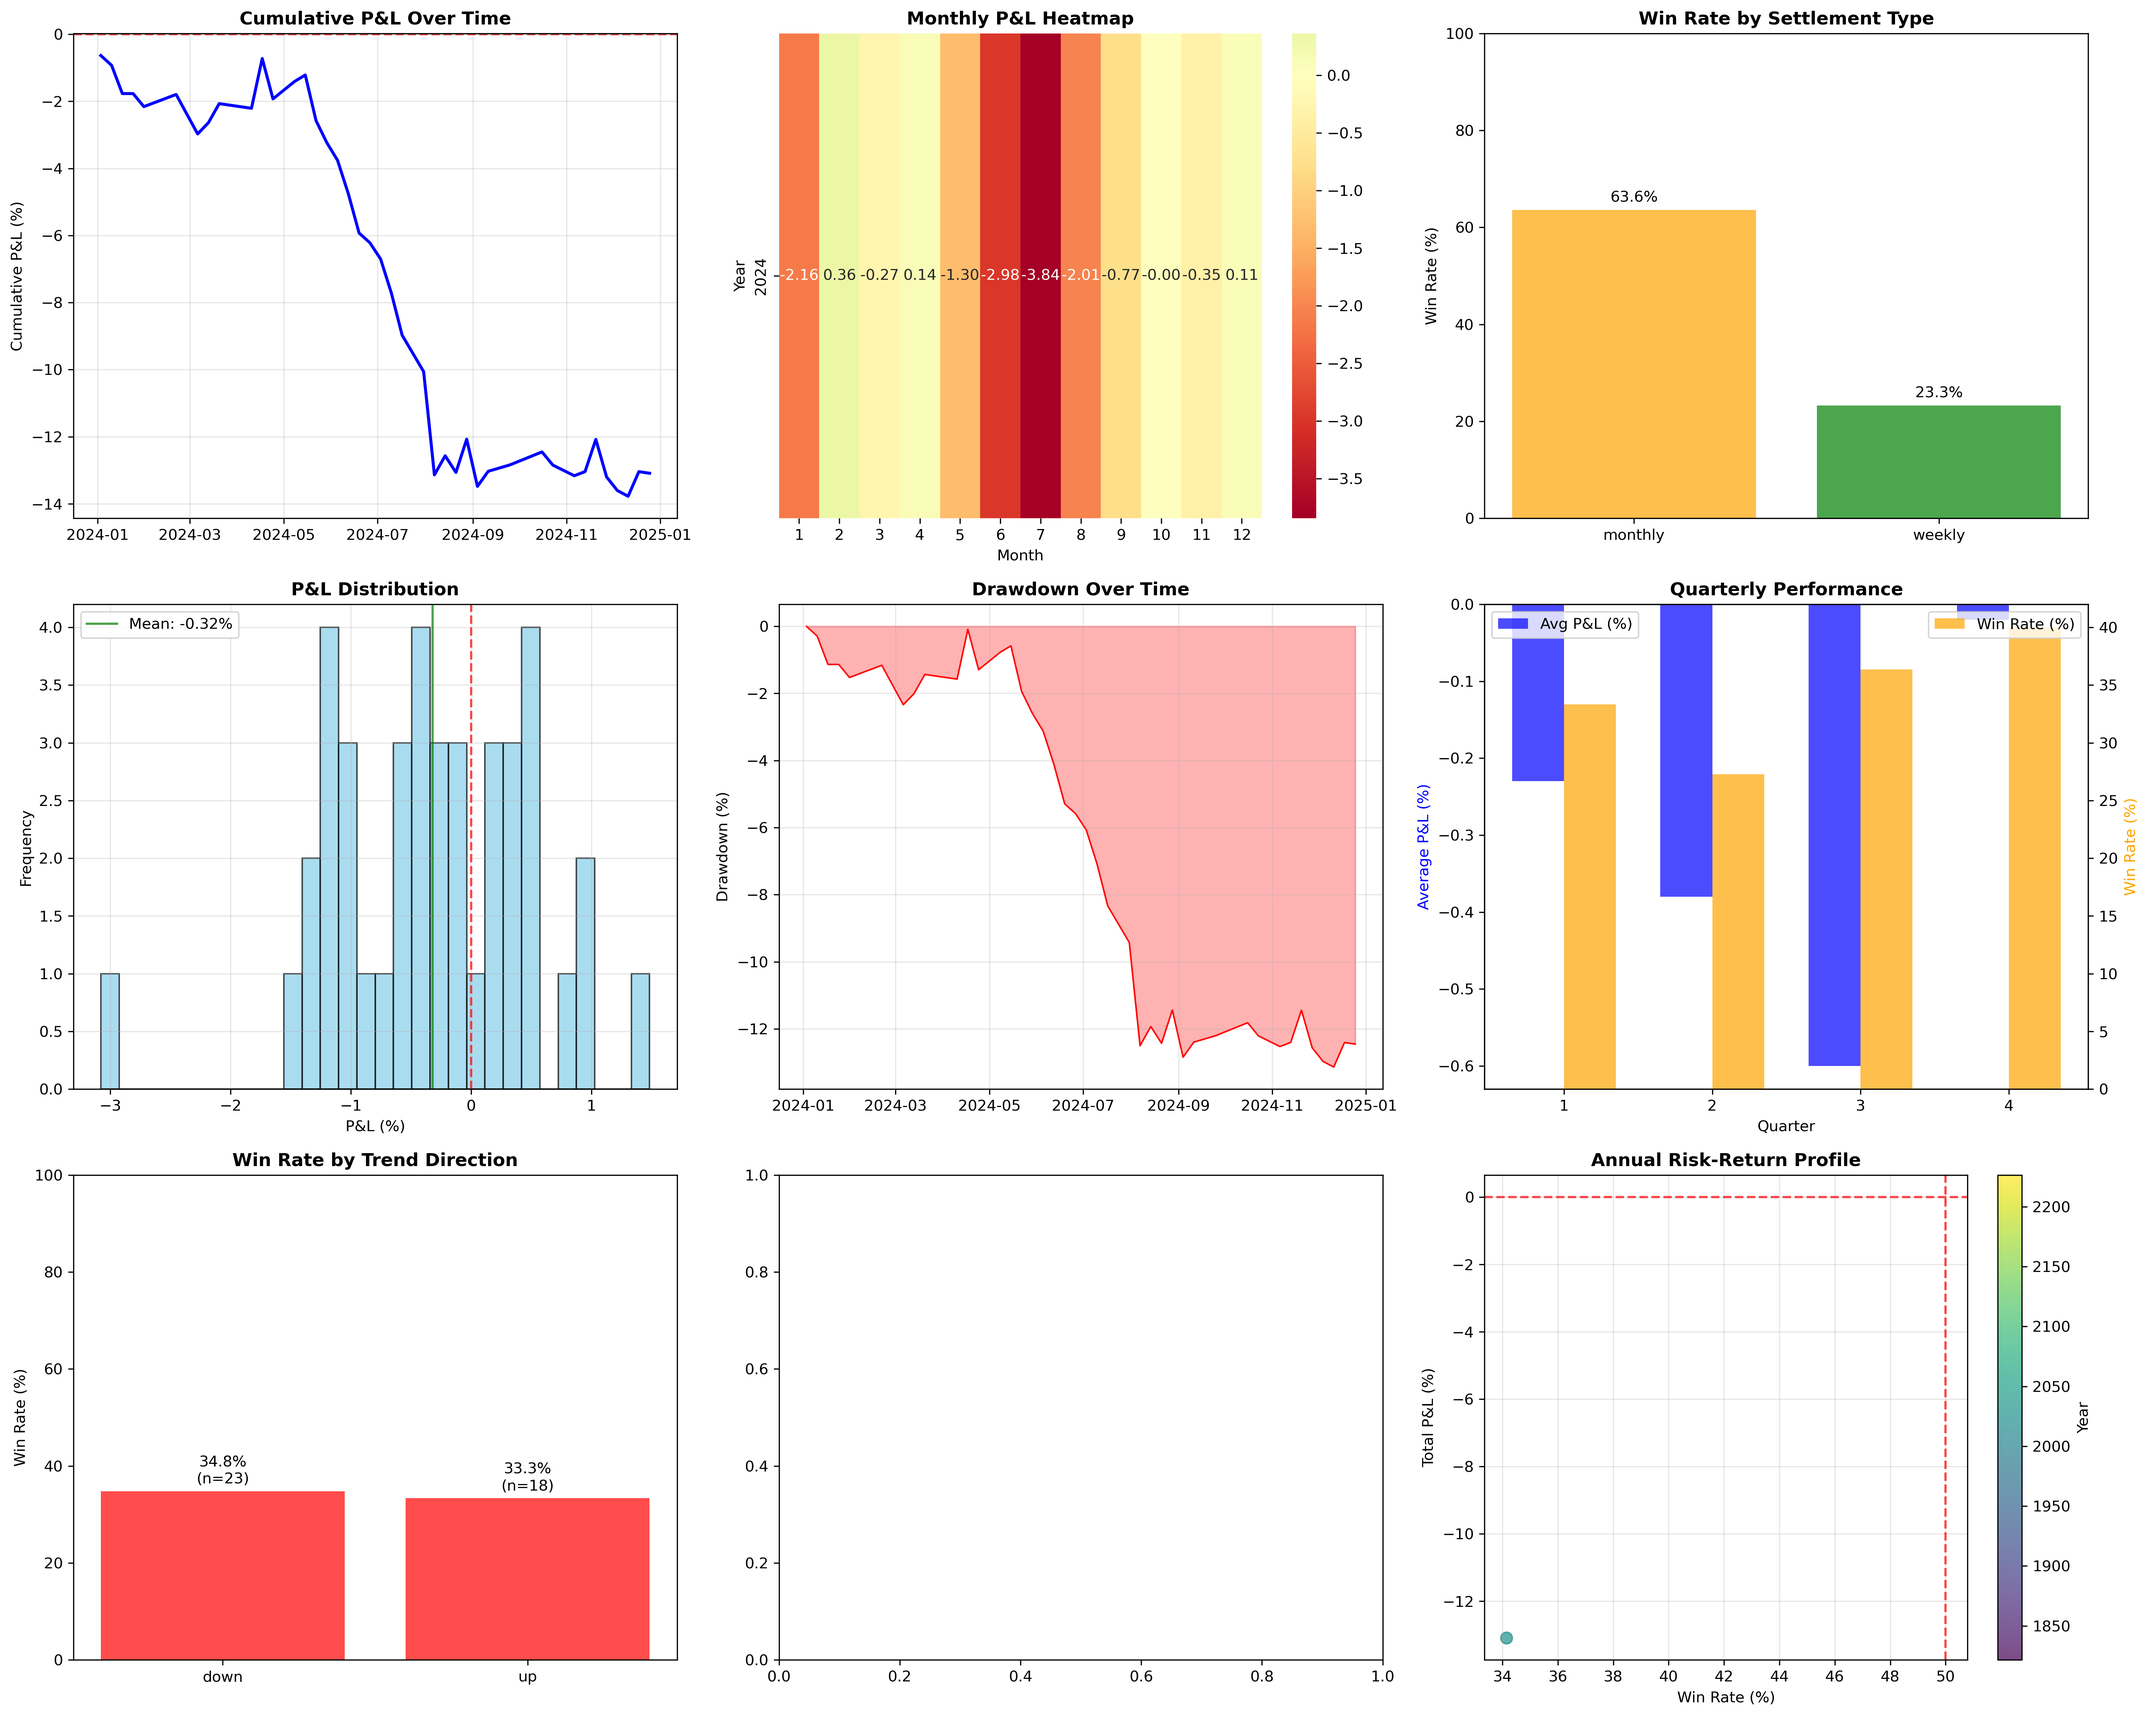
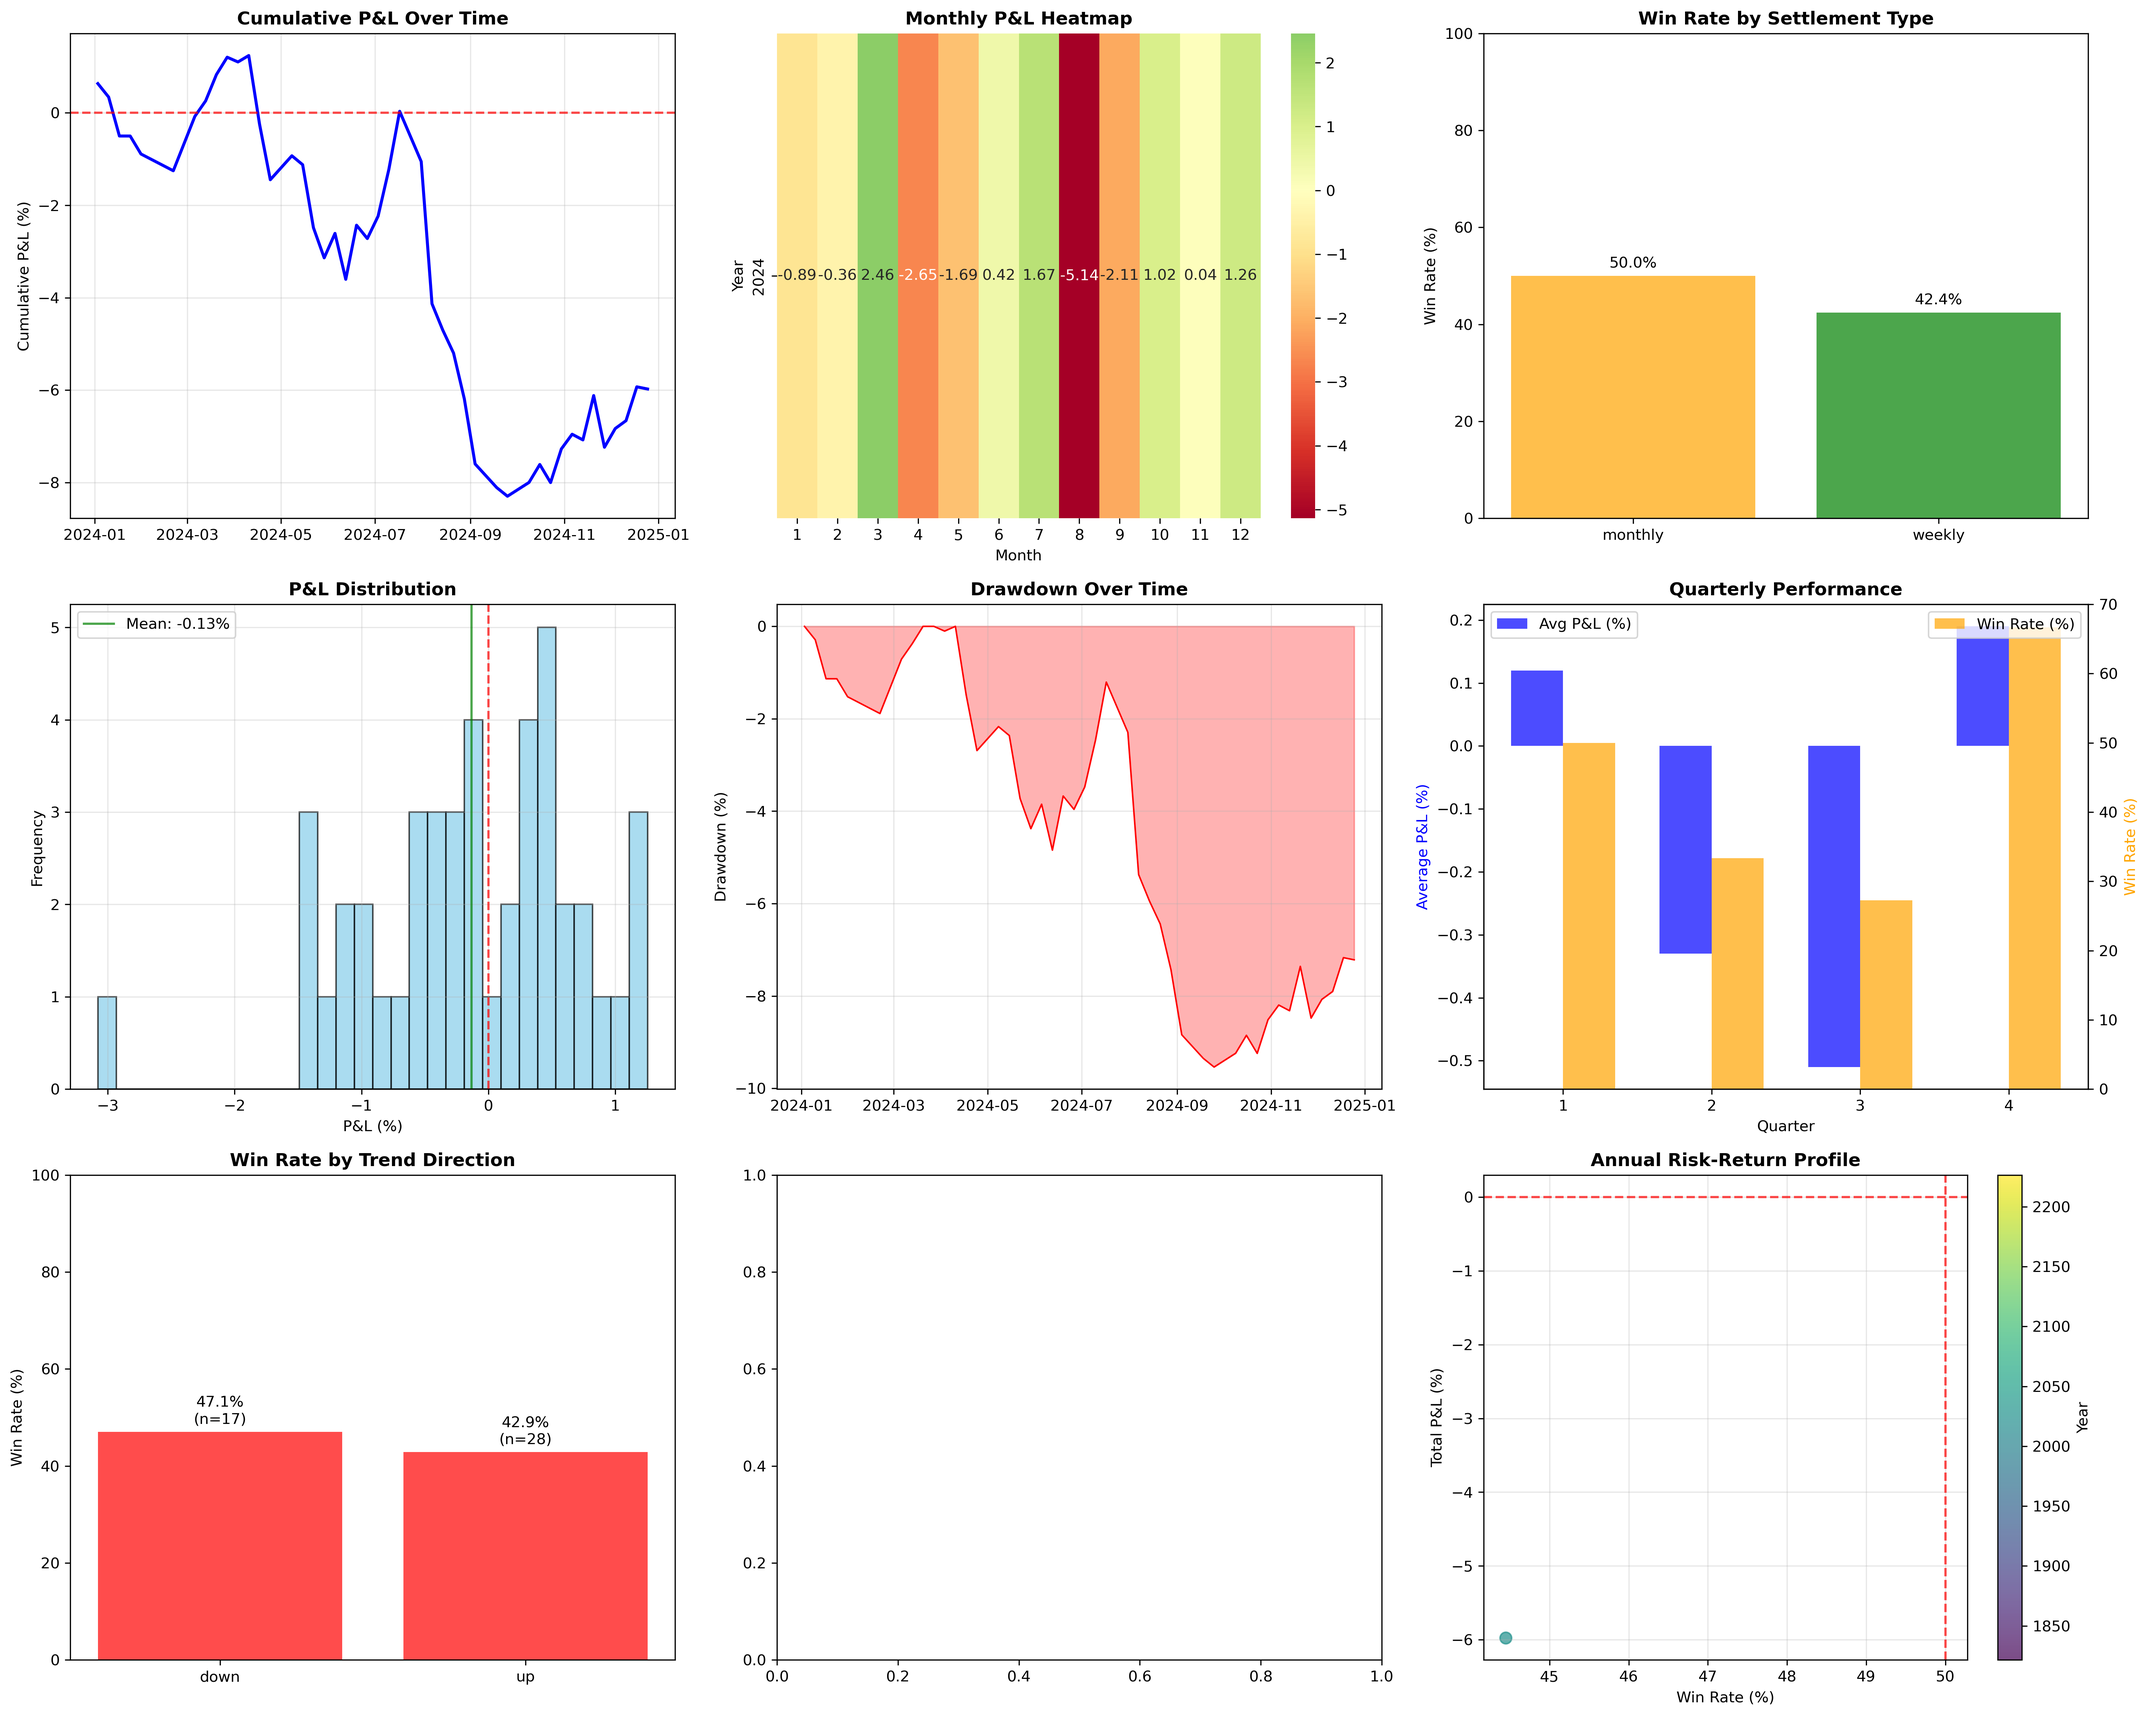
ignore file and update date comparison

diff --git a/taiwan_futures_backtest.py b/taiwan_futures_backtest.py
@@ -141,7 +141,7 @@ class TaiwanFuturesBacktest:
             opening_date = prev_settlement + timedelta(days=1)
 
         # Find the next available trading day
-        while opening_date not in self.data.index and opening_date <= settlement_date:
+        while not (self.data['Date'] == opening_date).any() and opening_date < settlement_date:
             opening_date += timedelta(days=1)
 
         return opening_date if (self.data['Date'] == opening_date).any() else None
@@ -372,6 +372,7 @@ class TaiwanFuturesBacktest:
         # 4. Settlement Type Analysis
         weekly = trades[trades['settlement_type'] == 'weekly']
         monthly = trades[trades['settlement_type'] == 'monthly']
+        print(monthly)
 
         filter_analysis['結算類型'] = {
             '週選': self.calculate_performance_stats(weekly),

diff --git a/result.md b/result.md
@@ -1,15 +1,15 @@
 # 台指期結算日傾向回測分析報告
 # Taiwan Futures Settlement Day Pattern Analysis Report
 
-**生成時間 Generated:** 2025-09-24 09:11:27
+**生成時間 Generated:** 2025-09-24 09:32:08
 
 ---
 
 ## 📊 執行摘要 Executive Summary
 
-本報告基於台指期結算日傾向策略進行了全面的回測分析，涵蓋了從2024年01月到2024年12月的完整交易週期。分析包含了基礎績效統計、進階風險指標、波動率分析、季節性模式以及多維度濾網分析。策略在此期間需要優化，淨利達-13.09%，勝率34.1%。
+本報告基於台指期結算日傾向策略進行了全面的回測分析，涵蓋了從2024年01月到2024年12月的完整交易週期。分析包含了基礎績效統計、進階風險指標、波動率分析、季節性模式以及多維度濾網分析。策略在此期間需要優化，淨利達-5.98%，勝率44.4%。
 
-This report provides a comprehensive backtesting analysis of Taiwan Futures settlement day pattern strategy, covering the complete trading cycle from January 2024 to December 2024. The analysis includes basic performance statistics, advanced risk indicators, volatility analysis, seasonal patterns, and multi-dimensional filter analysis. The strategy showed mixed performance with a net profit of -13.09% and a win rate of 34.1%.
+This report provides a comprehensive backtesting analysis of Taiwan Futures settlement day pattern strategy, covering the complete trading cycle from January 2024 to December 2024. The analysis includes basic performance statistics, advanced risk indicators, volatility analysis, seasonal patterns, and multi-dimensional filter analysis. The strategy showed mixed performance with a net profit of -5.98% and a win rate of 44.4%.
 
 ---
 
@@ -22,7 +22,7 @@ This report provides a comprehensive backtesting analysis of Taiwan Futures sett
 
 ### 分析範圍 Analysis Scope
 - **時間區間**: 2024-01-02 至 2024-12-31
-- **總交易次數**: 41
+- **總交易次數**: 45
 - **結算類型**: 週選 + 月選（每週三結算）
 
 ---
@@ -32,27 +32,27 @@ This report provides a comprehensive backtesting analysis of Taiwan Futures sett
 ### 💰 獲利能力分析 Profitability Analysis
 | 指標 Metric | 數值 Value | 評估 Assessment |
 |-------------|-----------|------------------|
-| **淨利 Net Profit** | -13.09% | 🔴 虧損 |
-| **總獲利 Total Profit** | 7.87% | 正面交易貢獻 |
-| **總虧損 Total Loss** | -20.96% | 負面交易影響 |
-| **最大單筆獲利** | 1.48% | 單筆最佳表現 |
+| **淨利 Net Profit** | -5.98% | 🔴 虧損 |
+| **總獲利 Total Profit** | 12.21% | 正面交易貢獻 |
+| **總虧損 Total Loss** | -18.18% | 負面交易影響 |
+| **最大單筆獲利** | 1.26% | 單筆最佳表現 |
 | **最大單筆虧損** | -3.08% | 單筆最差表現 |
 
 ### 🎲 交易統計 Trading Statistics
 | 項目 Item | 數值 Value | 比例 Ratio |
 |-----------|-----------|-----------|
-| **勝次 Winning Trades** | 14 | 34.1% |
-| **敗次 Losing Trades** | 26 | 63.4% |
-| **總交易次數** | 41 | 100.0% |
+| **勝次 Winning Trades** | 20 | 44.4% |
+| **敗次 Losing Trades** | 24 | 53.3% |
+| **總交易次數** | 45 | 100.0% |
 
 ### 📊 績效比率 Performance Ratios
 | 指標 Metric | 數值 Value | 解釋 Interpretation |
 |-------------|-----------|-------------------|
-| **勝率 Win Rate** | 34.1% | 🔴 低於50% |
-| **勝均 Avg Win** | 0.56% | 平均獲利交易收益 |
-| **敗均 Avg Loss** | -0.81% | 平均虧損交易損失 |
-| **筆均 Avg Trade** | -0.32% | 平均每筆交易收益 |
-| **盈虧比 P/L Ratio** | 0.697 | 🔴 需改善 |
+| **勝率 Win Rate** | 44.4% | 🔴 低於50% |
+| **勝均 Avg Win** | 0.61% | 平均獲利交易收益 |
+| **敗均 Avg Loss** | -0.76% | 平均虧損交易損失 |
+| **筆均 Avg Trade** | -0.13% | 平均每筆交易收益 |
+| **盈虧比 P/L Ratio** | 0.806 | 🔴 需改善 |
 
 ---
 
@@ -62,9 +62,9 @@ This report provides a comprehensive backtesting analysis of Taiwan Futures sett
 
 | 指標 KPI | 數值 Value | 評級 Rating | 建議 Recommendation |
 |----------|-----------|-------------|-------------------|
-| **凱利公式 Kelly%** | -60.3% | ⚠ 負值警告 | 建議降低部位或暫停交易 |
-| **最大回撤** | -13.1% | ✅ 風險可控 | 回撤程度在可接受範圍 |
-| **事件發生率** | 89.1% | ✅ 完整覆蓋 | 策略觸發頻率理想 |
+| **凱利公式 Kelly%** | -24.5% | ⚠ 負值警告 | 建議降低部位或暫停交易 |
+| **最大回撤** | -9.5% | ✅ 風險可控 | 回撤程度在可接受範圍 |
+| **事件發生率** | 97.8% | ✅ 完整覆蓋 | 策略觸發頻率理想 |
 
 ---
 
@@ -76,8 +76,8 @@ This report provides a comprehensive backtesting analysis of Taiwan Futures sett
 
 | 趨勢方向 | 勝率 Win Rate | 平均P&L | 交易次數 | 評估 |
 |----------|--------------|---------|----------|------|
-| **往上** | 33.3% | -0.19% | 18 | 🔴 較差 |
-| **往下** | 34.8% | -0.42% | 23 | 🔴 較差 |
+| **往上** | 42.9% | -0.01% | 28 | 🔴 較差 |
+| **往下** | 47.1% | -0.33% | 17 | 🔴 較差 |
 
 **結論**: 兩種趨勢表現相近。
 
@@ -85,8 +85,8 @@ This report provides a comprehensive backtesting analysis of Taiwan Futures sett
 
 | 結算類型 | 勝率 Win Rate | 平均P&L | 交易次數 | 評估 |
 |----------|--------------|---------|----------|------|
-| **週選** | 23.3% | -0.47% | 30 | 🔴 較差 |
-| **月選** | 63.6% | 0.08% | 11 | 🟢 優秀 |
+| **週選** | 42.4% | -0.22% | 33 | 🔴 較差 |
+| **月選** | 50.0% | 0.10% | 12 | 🔴 較差 |
 
 **結論**: 🎯 **月選結算表現顯著優於週選**，建議重點關注月選結算日的交易機會。
 
@@ -94,10 +94,10 @@ This report provides a comprehensive backtesting analysis of Taiwan Futures sett
 
 | 開盤類型 | 勝率 Win Rate | 平均P&L | 交易次數 | 評估 |
 |----------|--------------|---------|----------|------|
-| **高開** | 36.8% | -0.36% | 19 | 🔴 較差 |
-| **低開** | 31.8% | -0.28% | 22 | 🔴 較差 |
+| **高開** | 42.9% | -0.18% | 21 | 🔴 較差 |
+| **低開** | 45.8% | -0.10% | 24 | 🔴 較差 |
 
-**結論**: 高開情況下策略表現略佳。
+**結論**: 低開情況下策略表現略佳。
 
 ---
 
@@ -107,12 +107,12 @@ This report provides a comprehensive backtesting analysis of Taiwan Futures sett
 
 | 風險指標 Risk Metric | 數值 Value | 解釋 Interpretation |
 |---------------------|-----------|-------------------|
-| **年化報酬率** | -16.60% | 策略年化績效 |
-| **年化波動率** | 6.03% | 策略風險水準 |
-| **夏普比率** | -2.751 | 風險調整後報酬 |
-| **索提諾比率** | -3.759 | 下檔風險調整報酬 |
-| **最大回撤** | -13.1% | 最大虧損程度 |
-| **最大連續虧損** | 11 筆 | 連續虧損承受能力 |
+| **年化報酬率** | -6.91% | 策略年化績效 |
+| **年化波動率** | 6.17% | 策略風險水準 |
+| **夏普比率** | -1.119 | 風險調整後報酬 |
+| **索提諾比率** | -1.464 | 下檔風險調整報酬 |
+| **最大回撤** | -9.5% | 最大虧損程度 |
+| **最大連續虧損** | 8 筆 | 連續虧損承受能力 |
 
 ### 🎯 風險評估 Risk Assessment
 
@@ -124,7 +124,6 @@ This report provides a comprehensive backtesting analysis of Taiwan Futures sett
 
 ### 🟢 正面發現 Positive Findings
 
-1. **月選結算優勢**: 月選結算勝率達63.6%，表現顯著優於週選
 
 ### ⚠ 注意事項 Important Notes
 
@@ -150,7 +149,7 @@ This report provides a comprehensive backtesting analysis of Taiwan Futures sett
 
 ---
 
-**報告生成完成時間**: 2025-09-24 09:11:27
+**報告生成完成時間**: 2025-09-24 09:32:08
 **版本**: Enhanced v3.0
 **分析引擎**: Taiwan Futures Backtest System
 
